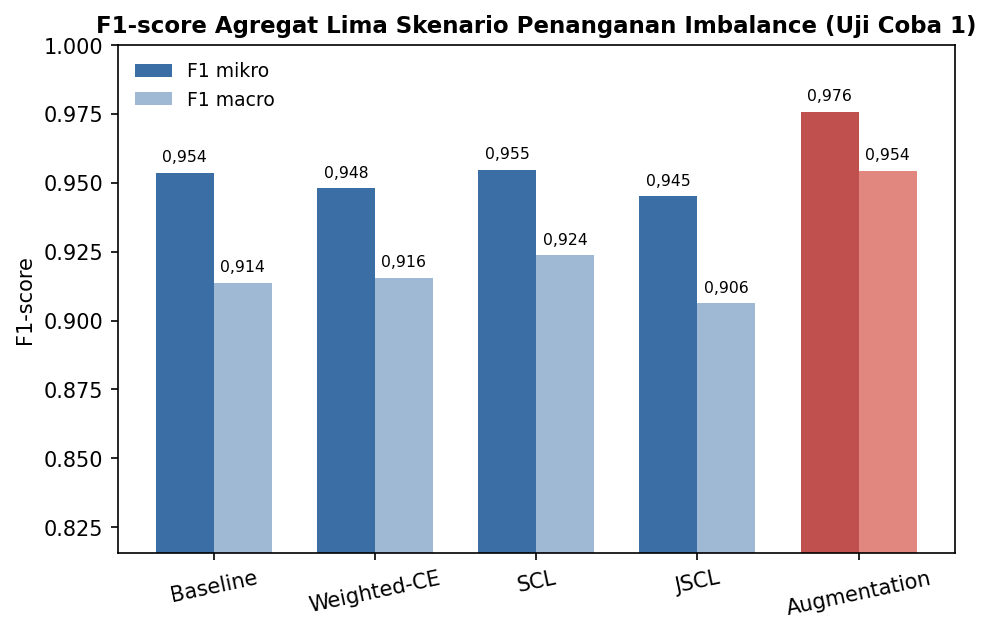
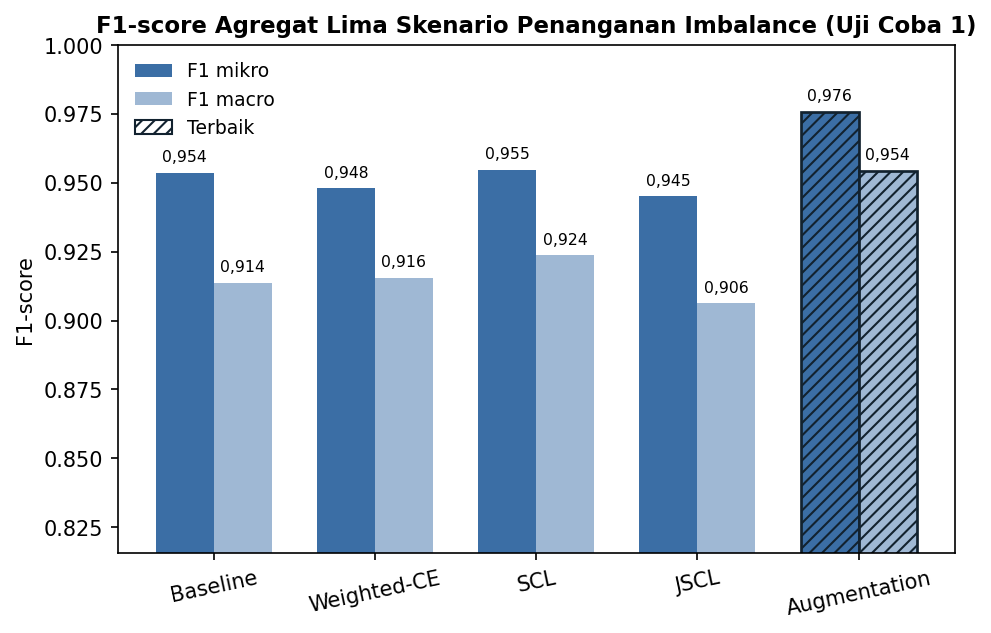
fix(bab4-viz): warna chart F1 konsisten legenda + label "IndoBERT phase-1"
Pak Aldi #8: bar pemenang TIDAK lagi diberi warna merah berbeda. Sekarang
F1 mikro selalu biru & F1 macro selalu biru muda (cocok legenda); pemenang
ditandai HATCH + entri legenda "Terbaik" (plot_agregat). Berlaku ke
f1_uc1/uc2/uc3_agregat.

Sinkron koreksi cased: label sumbu "IndoBERT cased" -> "IndoBERT phase-1"
di f1_uc2 (bab4_visualizations) & chart kanonik (hasil_f1_skenario_revisi).
Semua PNG bab4_viz diregenerate (skrip plotting, tanpa run model).

Changed region(s): [[0.7871, 0.1501, 0.9384, 0.8705], [0.1211, 0.1801, 0.2725, 0.2101]]

diff --git a/src/analysis/bab4_visualizations.py b/src/analysis/bab4_visualizations.py
@@ -121,15 +121,23 @@ fig.savefig(OUT / "augmentasi_distribusi.png"); plt.close(fig)
 def plot_agregat(fname, judul, labels, micro, macro, highlight=None, rot=0, figw=7.2):
     fig, ax = plt.subplots(figsize=(figw, 4.4))
     x = np.arange(len(labels)); w = 0.36
-    cM = ["#3b6ea5"]*len(labels); cR = ["#9fb8d4"]*len(labels)
+    # Warna KONSISTEN dengan legenda: F1 mikro selalu biru, F1 macro selalu biru muda.
+    # Pemenang TIDAK diberi warna berbeda (revisi Pak Aldi #8), melainkan ditandai hatch.
+    from matplotlib.patches import Patch
+    bM = ax.bar(x - w/2, micro, w, label="F1 mikro", color="#3b6ea5")
+    bR = ax.bar(x + w/2, macro, w, label="F1 macro", color="#9fb8d4")
     if highlight is not None:
-        cM[highlight] = "#c0504d"; cR[highlight] = "#e2877f"
-    bM = ax.bar(x - w/2, micro, w, label="F1 mikro", color=cM)
-    bR = ax.bar(x + w/2, macro, w, label="F1 macro", color=cR)
+        for b in (bM[highlight], bR[highlight]):
+            b.set_hatch("////"); b.set_edgecolor("#12222f"); b.set_linewidth(1.3)
     ax.set_ylim(min(min(micro), min(macro))*0.90, 1.0)
     ax.set_xticks(x); ax.set_xticklabels(labels, rotation=rot)
     ax.set_ylabel("F1-score"); ax.set_title(judul)
-    ax.legend(frameon=False, fontsize=9)
+    handles, lbls = ax.get_legend_handles_labels()
+    if highlight is not None:
+        handles.append(Patch(facecolor="white", edgecolor="#12222f",
+                             hatch="////", label="Terbaik"))
+        lbls.append("Terbaik")
+    ax.legend(handles, lbls, frameon=False, fontsize=9)
     for bars in (bM, bR):
         for b in bars:
             ax.text(b.get_x()+b.get_width()/2, b.get_height()+0.003,
@@ -177,7 +185,7 @@ plot_perkelas("f1_uc1_perkelas.png",
 
 # ── Uji Coba 2 (5 model) ──────────────────────────────────────────────────────
 # Angka = ground-truth uji TERKOREKSI (Tabel 4.9/4.10).
-md2 = ["IndoBERT\nuncased", "cahya\nuncased", "DistilBERT", "IndoBERT\ncased", "RoBERTa"]
+md2 = ["IndoBERT\nuncased", "cahya\nuncased", "DistilBERT", "IndoBERT\nphase-1", "RoBERTa"]
 plot_agregat("f1_uc2_agregat.png",
              "F1-score Agregat Lima Model Pra-latih (Uji Coba 2)",
              md2, [0.9536, 0.9286, 0.9353, 0.7774, 0.8069],

diff --git a/src/analysis/hasil_f1_skenario_revisi.py b/src/analysis/hasil_f1_skenario_revisi.py
@@ -44,7 +44,7 @@ DATA = [
     ("POS-tag",      0.9547, "P", False),
     ("cahya\nuncased", 0.9286, "B", False),
     ("DistilBERT",   0.9353, "B", False),
-    ("IndoBERT\ncased", 0.7774, "B", False),
+    ("IndoBERT\nphase-1", 0.7774, "B", False),
     ("RoBERTa",      0.8069, "B", False),
 ]
 BASELINE = 0.9536
